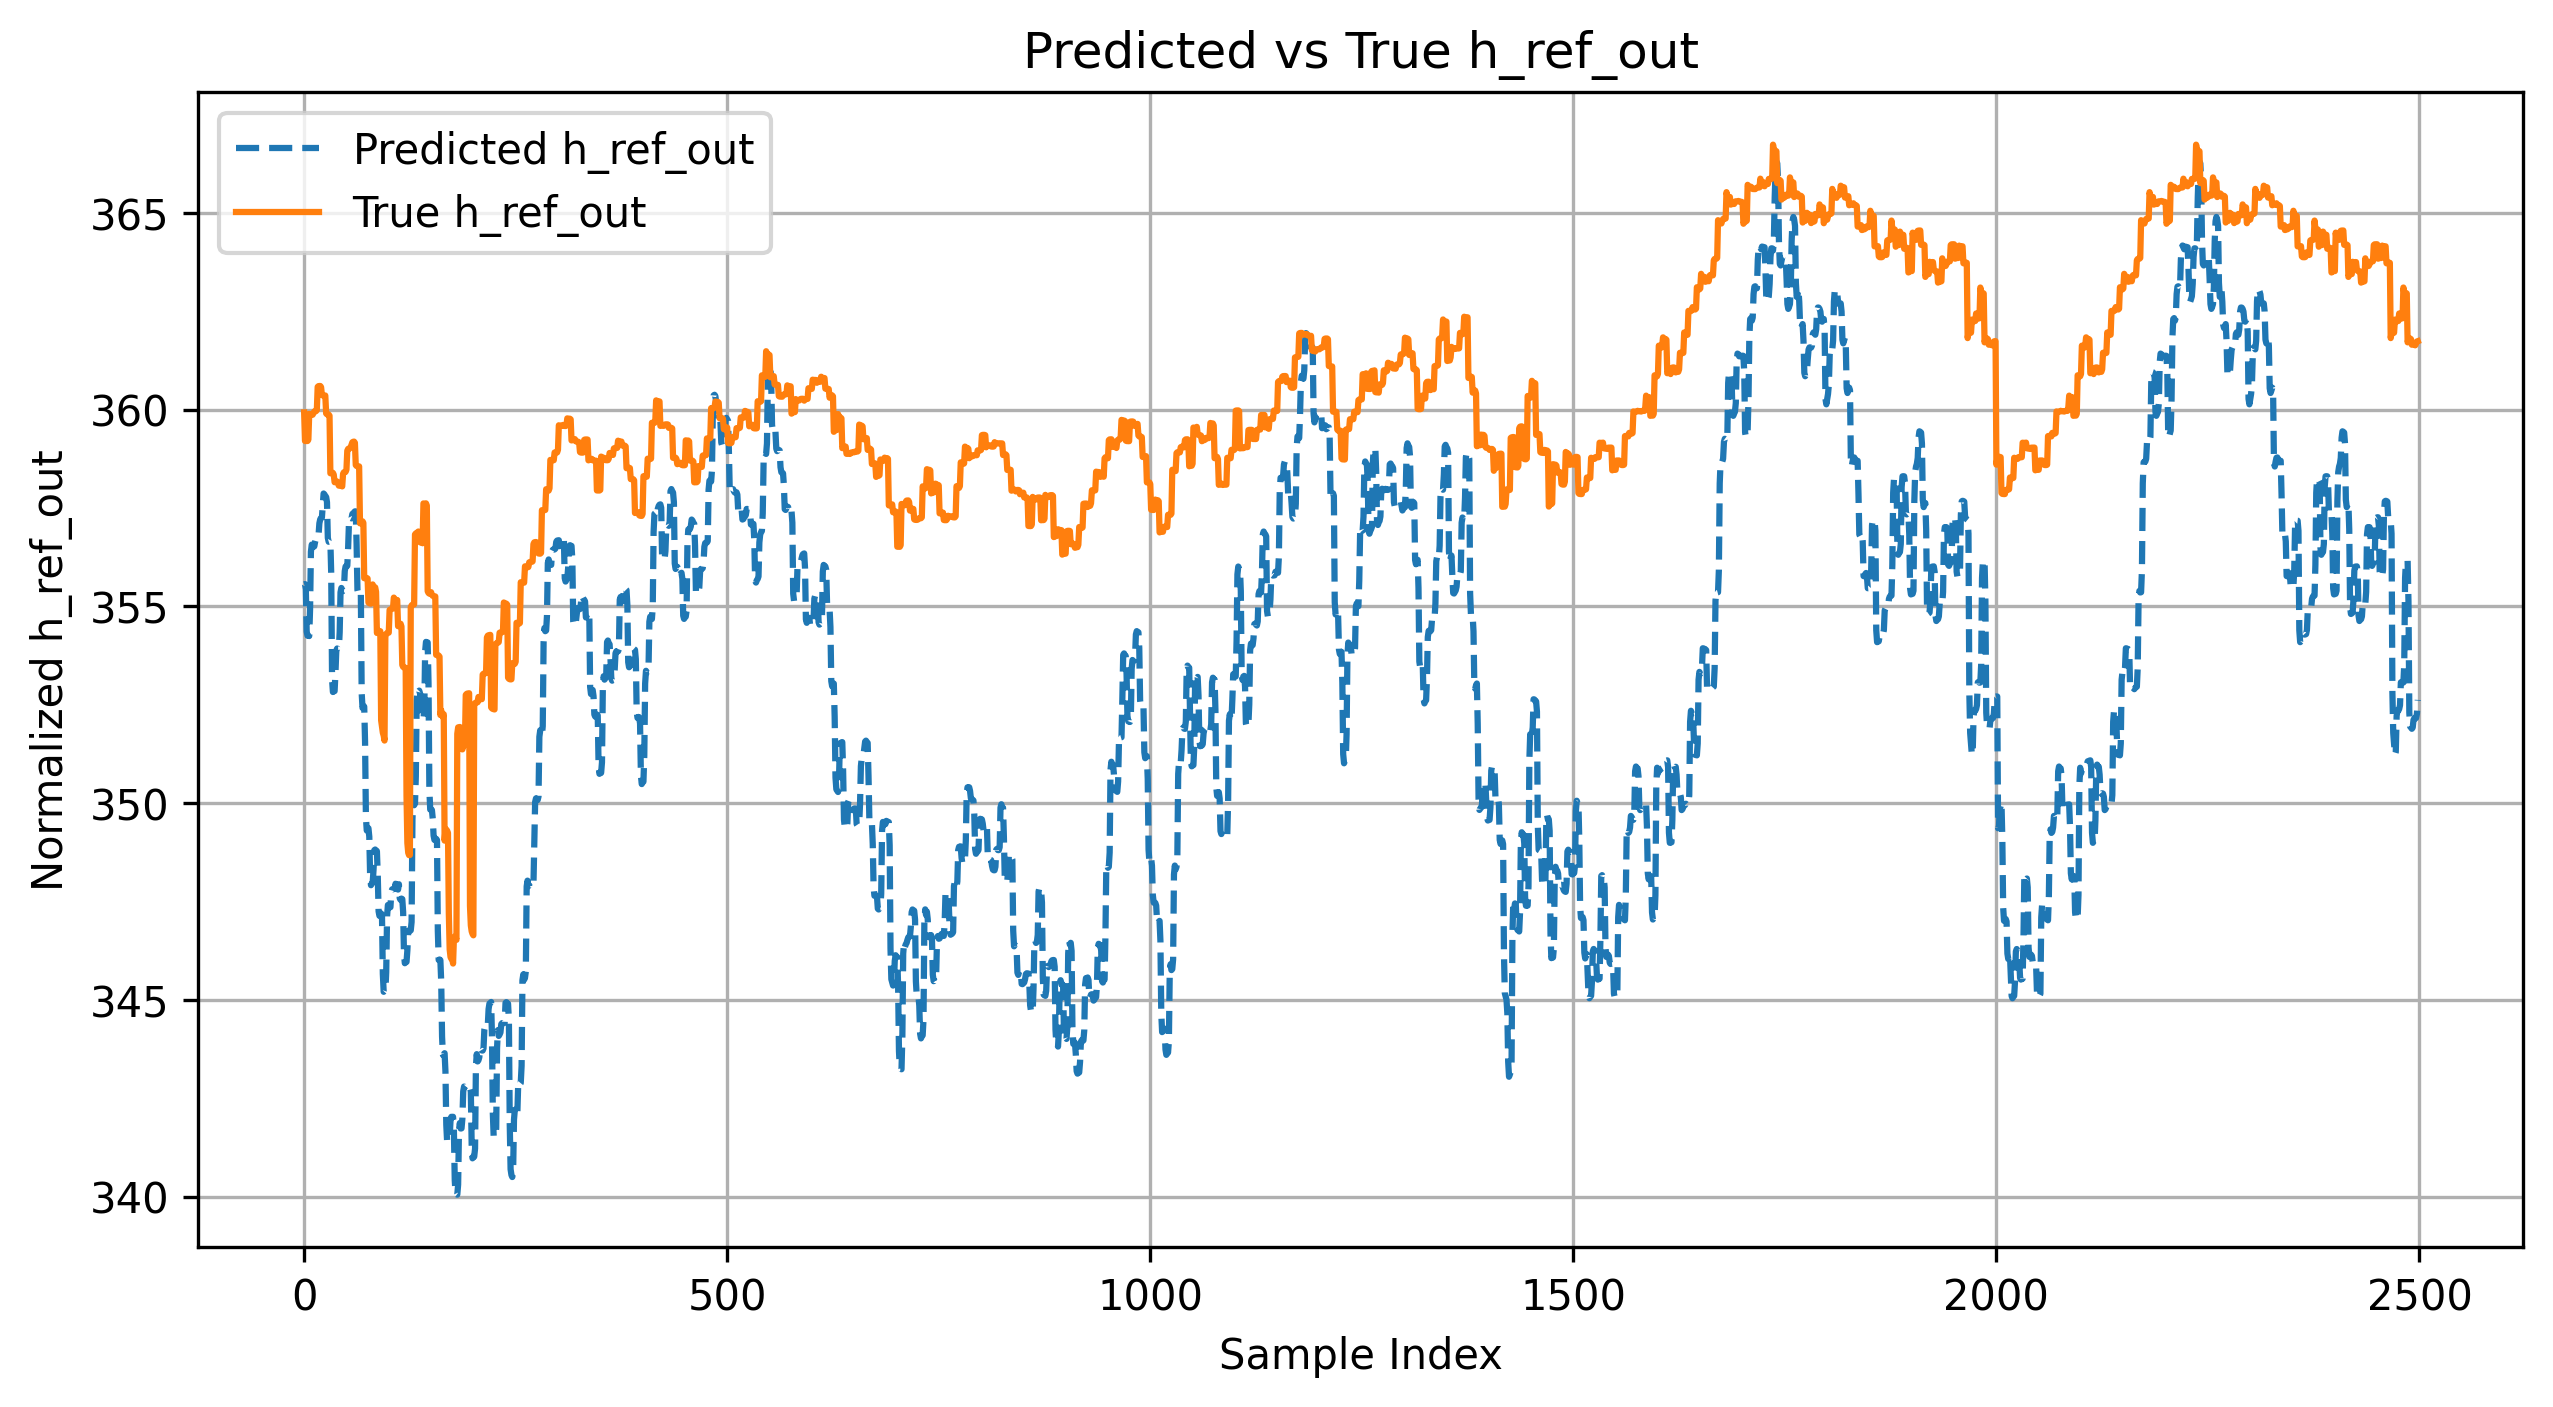
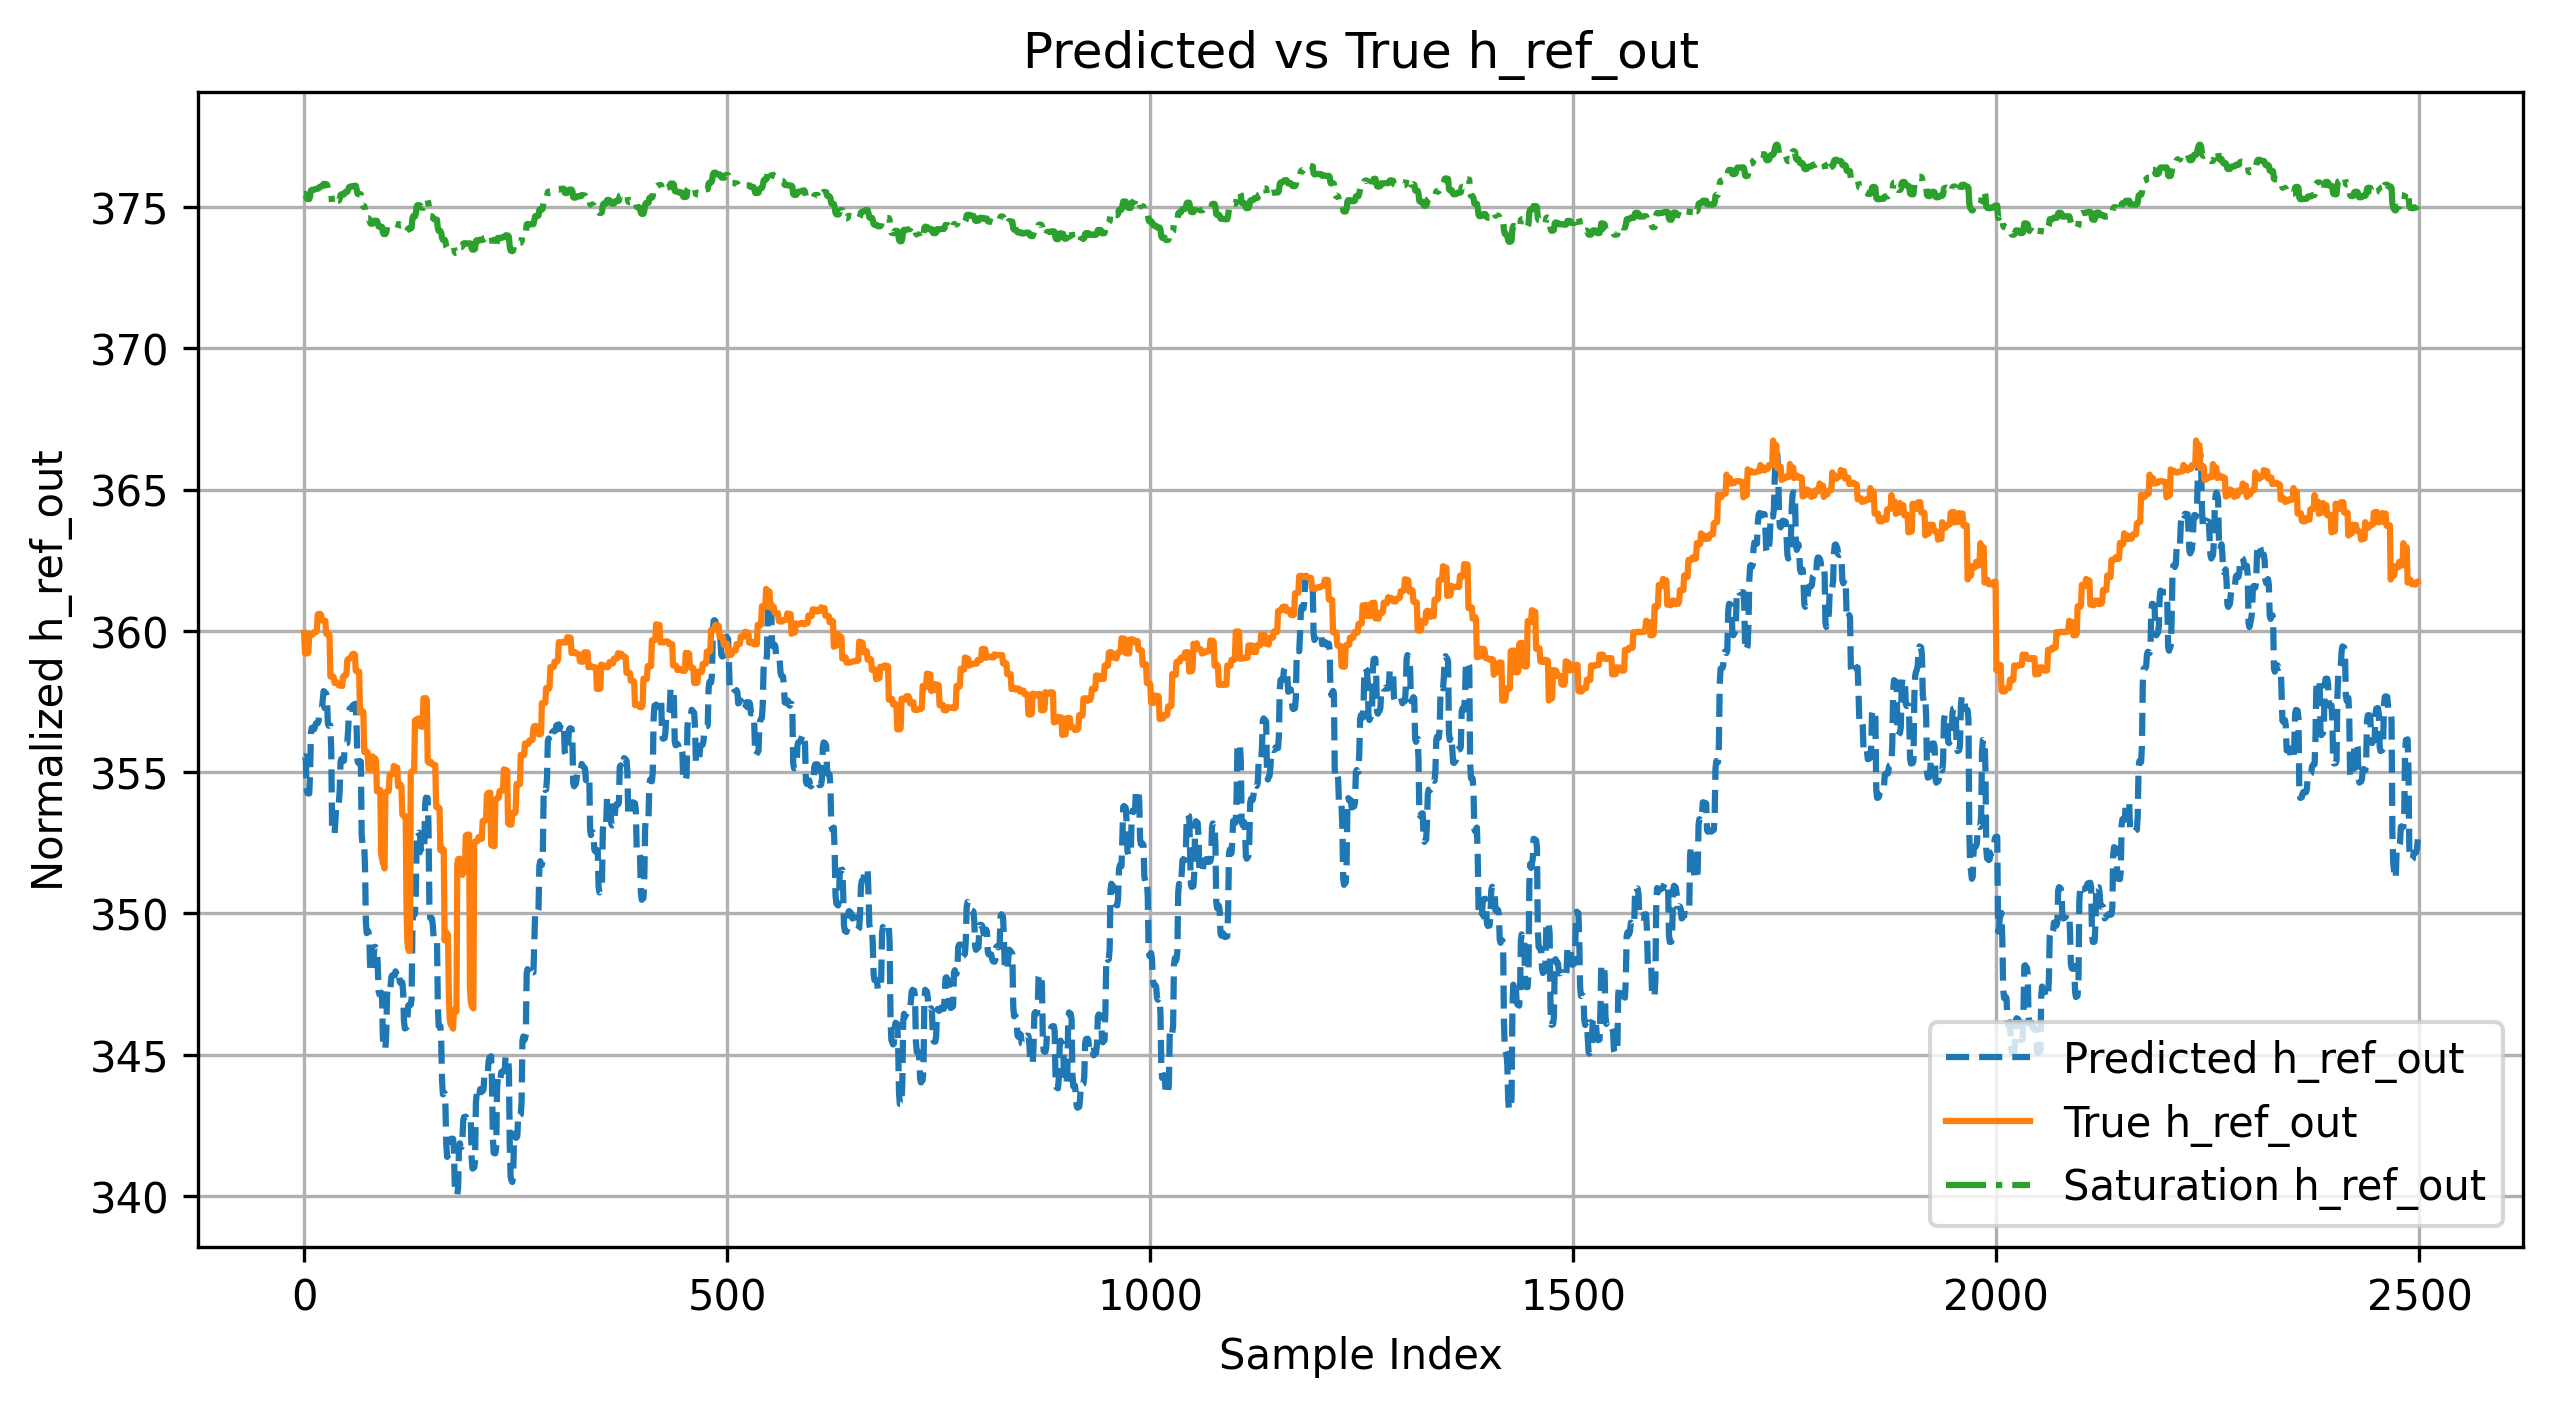
inference

diff --git a/inference.py b/inference.py
@@ -8,6 +8,7 @@ import numpy as np
 import pandas as pd
 import matplotlib.pyplot as plt
 from src.losses.prop_ref import Refrigerant as R
+from scipy.io import loadmat
 
 PARA_DIR = "dataset/dataset.csv"
 STATS_DIR = "dataset/statistics_val.csv"
@@ -20,9 +21,16 @@ SIZE = 0.05
 
 def unnormalize(item, column):
     stats = pd.read_csv(STATS_DIR)
-    item_norm = (item * stats.loc[1, column]) + stats.loc[0, column]
+    item_norm = (item) * (stats.loc[1, column]) + (stats.loc[0, column])
 
     return item_norm
+
+def h_satu(x):
+    x = (x - 1300.9) / 939.1761
+    y = np.array([x**8, x**7, x**6, x**5, x**4, x**3, x**2, x, 1.0])
+    coeff = np.array([-0.870502063247313, 0.735216547740597, 3.35155930854622, -2.33678206224002, -5.32622216975478, 3.24797824375616, -4.21395627140569, 7.79742106651108, 396.065396306915])
+
+    return np.dot(y,coeff)
 
 # load validation set(normalized)
 val_ds = Paraloader(dir = PARA_DIR, stats_dir=STATS_DIR, sequence_length = SEQ_LEN)
@@ -38,12 +46,13 @@ model.load_state_dict(torch.load("src/models/PINN0318_01.pth"))
 model.eval()
 model.cuda()
 
-p_pred = []
-p_true = []
+p_pred_list = []
+p_true_list = []
 
-h_pred = []
-h_true = []
-h_sat = []
+h_pred_list = []
+h_true_list = []
+h_sat_list = []
+
 
 for batch in val_dl:
     model_input, ground_truth = batch
@@ -52,25 +61,23 @@ for batch in val_dl:
 
     outputs = outputs.detach().cpu().numpy()
     ground_truth = ground_truth.detach().cpu().numpy()
-    h_sat = R.vap_hsat(p_pred)
     
-    print("pred", unnormalize(outputs[:,0],"pressure"))
-    print("true", unnormalize(ground_truth[:,0],"pressure"))
+    p_pred = unnormalize(outputs[:,0],"pressure")
+    p_true = unnormalize(ground_truth[:,0],"pressure")
+    h_pred = unnormalize(outputs[:,1],"h_ref_out")
+    h_true = unnormalize(ground_truth[:,1],"h_ref_out")
+    h_sat = h_satu(p_pred.item())
 
-    print("h_pred", unnormalize(outputs[:,1],"h_ref_out"))
-    print("h_true", unnormalize(ground_truth[:,1],"h_ref_out"))
-    
-    p_pred.append(unnormalize(outputs[:,0],"pressure"))
-    p_true.append(unnormalize(ground_truth[:,0],"pressure"))
-
-    h_pred.append(unnormalize(outputs[:,1],"h_ref_out"))
-    h_true.append(unnormalize(ground_truth[:,1],"h_ref_out"))
-    h_sat.append(unnormalize(h_sat))
+    p_pred_list.append(p_pred.item())
+    p_true_list.append(p_true.item())
+    h_pred_list.append(h_pred)
+    h_true_list.append(h_true)
+    h_sat_list.append(h_sat)
 
 # Plot predicted vs true pressure
 plt.figure(figsize=(10, 5))
-plt.plot(p_pred, label="Predicted Pressure", linestyle='--')
-plt.plot(p_true, label="True Pressure", linestyle='-')
+plt.plot(p_pred_list, label="Predicted Pressure", linestyle='--')
+plt.plot(p_true_list, label="True Pressure", linestyle='-')
 plt.title("Predicted vs True Pressure")
 plt.xlabel("Sample Index")
 plt.ylabel("Normalized Pressure")
@@ -79,9 +86,9 @@ plt.grid()
 plt.savefig('predict_p.png', dpi=300, bbox_inches='tight')
 
 plt.figure(figsize=(10, 5))
-plt.plot(h_pred, label="Predicted h_ref_out", linestyle='--')
-plt.plot(h_true, label="True h_ref_out", linestyle='-')
-plt.plot(h_sat, label="Saturation h_ref_out", linestyle='---')
+plt.plot(h_pred_list, label="Predicted h_ref_out", linestyle='--')
+plt.plot(h_true_list, label="True h_ref_out", linestyle='-')
+plt.plot(h_sat_list , label="Saturation h_ref_out", linestyle='-.')
 plt.title("Predicted vs True h_ref_out")
 plt.xlabel("Sample Index")
 plt.ylabel("Normalized h_ref_out")
